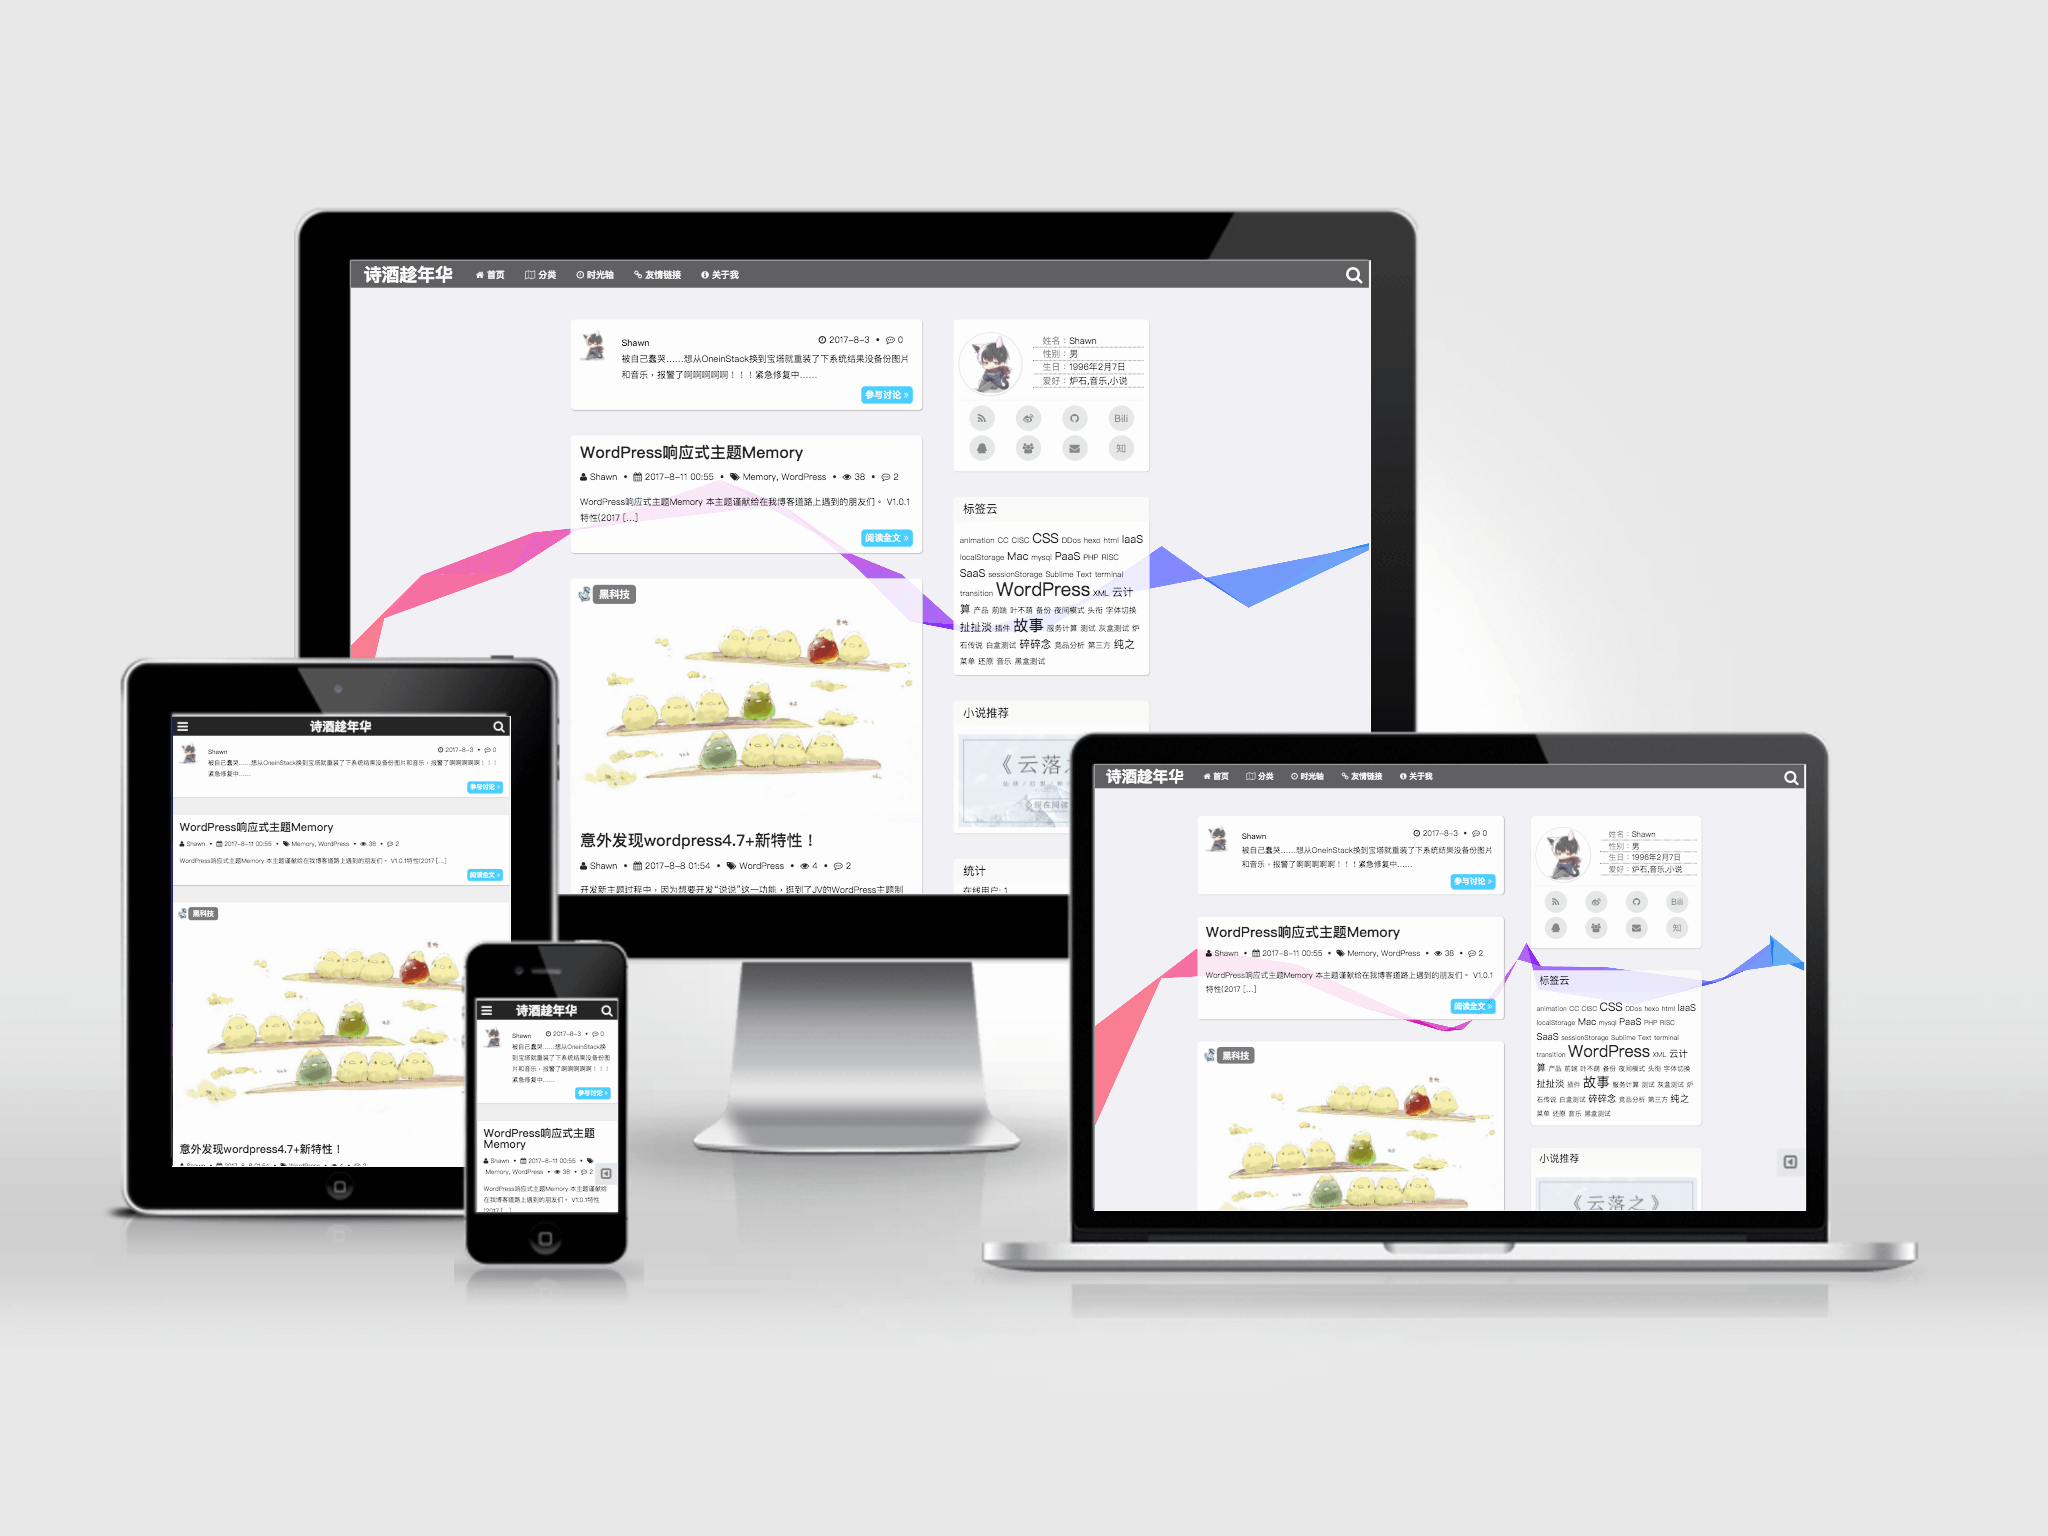
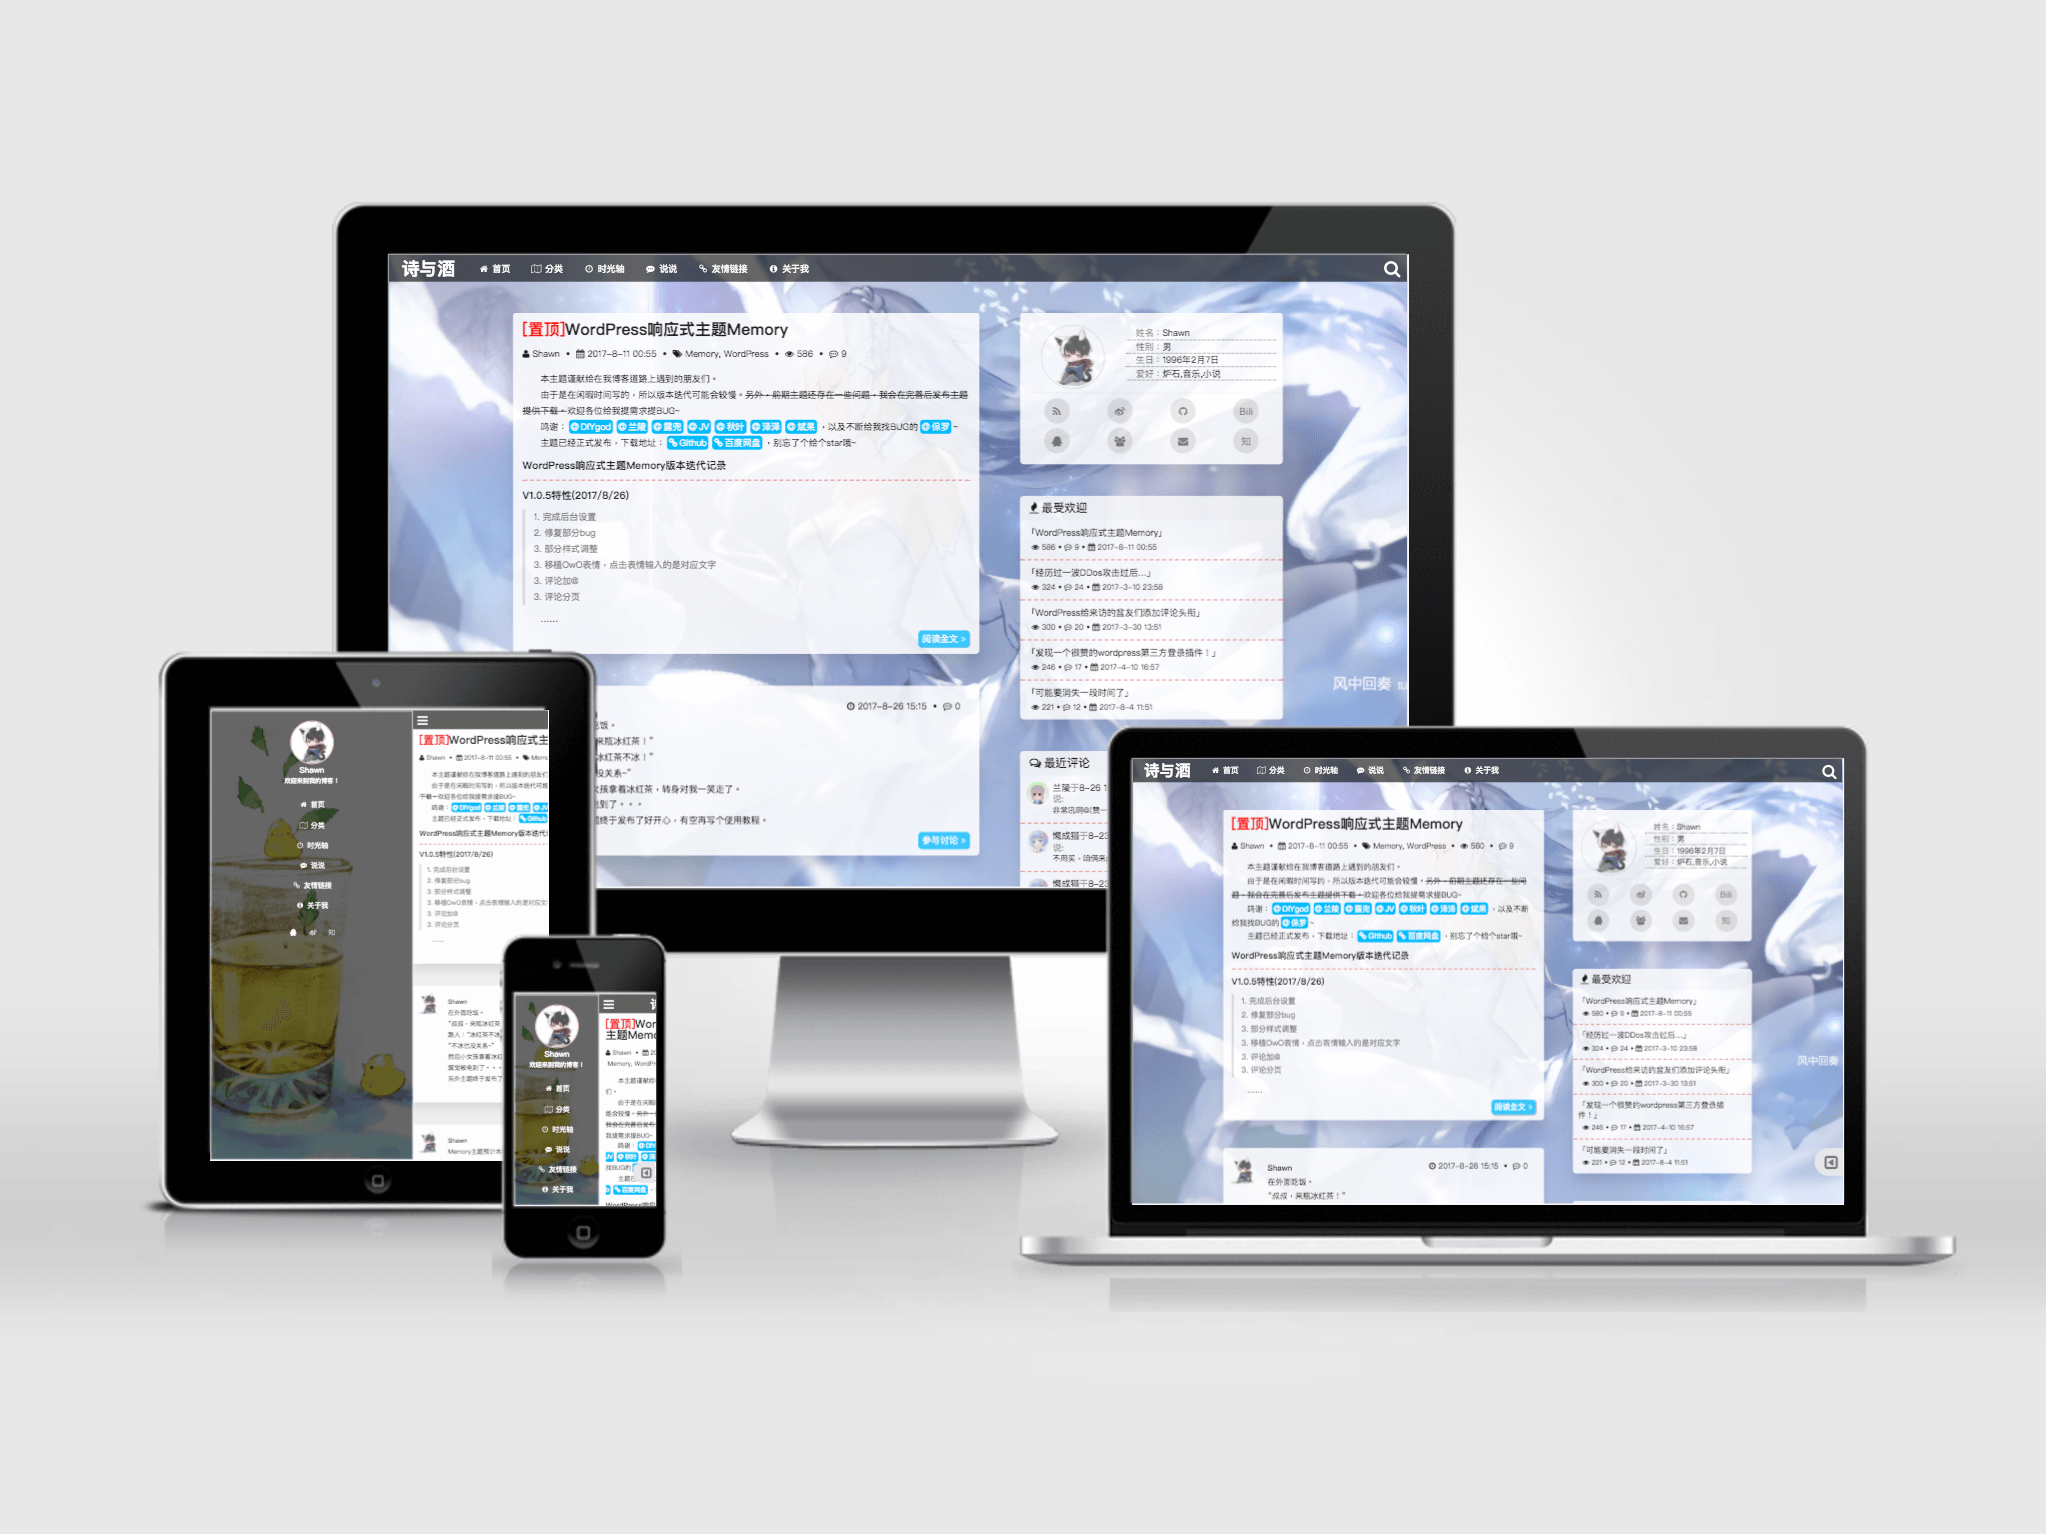
some change

Changed region(s): [[0.0616, 0.1226, 0.9545, 0.8579]]

diff --git a/js/main.js b/js/main.js
@@ -112,7 +112,7 @@ $(document).ready(function($) {
         }
     )
 
-    // ------------------变幻背景------------------
+    /* ------------------变幻背景------------------
     // if (!isMobile) {
     var c = document.getElementById('evanyou'),
         x = c.getContext('2d'),
@@ -168,7 +168,7 @@ $(document).ready(function($) {
     document.onclick = evanyou
     document.ontouchstart = evanyou
     evanyou()
-    // }
+    // }*/
 
     //------------------回到顶部------------------
     $(".go-top").hide()

diff --git a/header.php b/header.php
@@ -100,7 +100,7 @@ Author URI: https://shawnzeng.com
 </head>
 
 <body>
-    <canvas id="evanyou"></canvas>
+    <!--canvas id="evanyou"></canvas-->
     <div class="cover"></div>
     <header id="header">
         <div id="menu">
